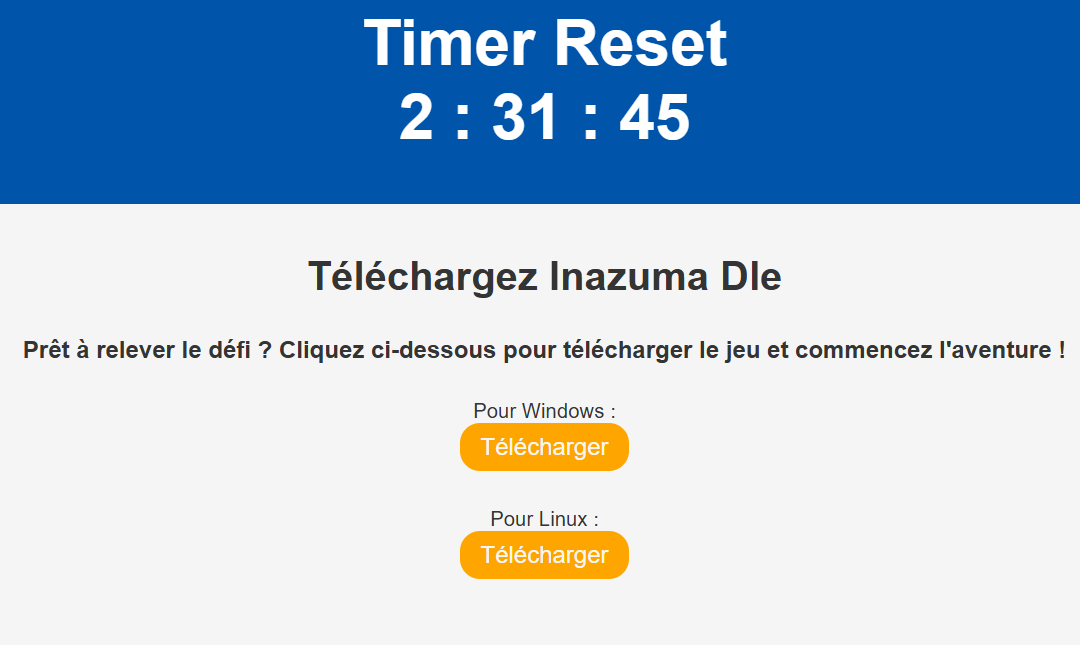
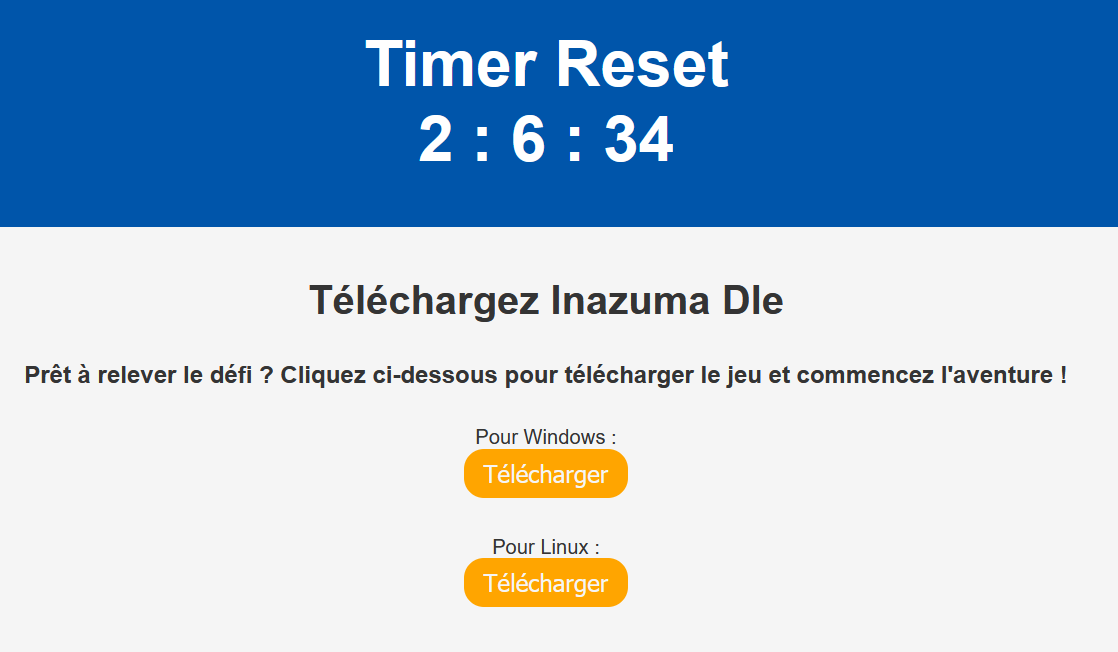
fix responsiv and image

diff --git a/app/projets/[slug]/page.tsx b/app/projets/[slug]/page.tsx
@@ -5,23 +5,19 @@ import Link from "next/link";
 import { MiseEnPage } from "../../essentiel/miseEnPage";
 import { Titre } from "../../composants/titre";
 import { Info } from "../../composants/info";
-import { Footer } from "../../essentiel/footer";
 
 interface PageProps {
 	params: Promise<{ slug: string }>;
 }
 
-// 1. Ajouter cette fonction pour générer toutes les routes statiques
 export async function generateStaticParams() {
 	return Projets.map((project) => ({
 		slug: project.slug,
 	}));
 }
 
-// 2. Votre composant de page dynamique
 export default async function ProjectPage({ params }: PageProps) {
 	const { slug } = await params;
-
 	const projets = Projets.find((p) => p.slug === slug);
 
 	if (!projets) {
@@ -30,7 +26,8 @@ export default async function ProjectPage({ params }: PageProps) {
 
 	return (
 		<MiseEnPage>
-			<main className=" text-white bg-white p-6">
+			{/* Changement : text-black par défaut pour éviter le texte blanc invisible sur fond blanc */}
+			<main className="text-black bg-white p-6">
 				<div className="mt-20">
 					<Titre texte={projets.titre} endroit="bleu" />
 				</div>
@@ -43,13 +40,24 @@ export default async function ProjectPage({ params }: PageProps) {
 					))}
 				</div>
 
+				<div className="flex justify-center mt-20">
+					<p className="text-lg md:text-xl leading-relaxed w-full md:w-1/2">
+						{projets.description}
+					</p>
+				</div>
+
 				<img
 					src={projets.imagePrincipale}
 					alt={projets.titre}
-					className="w-full h-96 object-cover rounded-2xl mb-6 shadow-xl mt-20"
+					className="w-full h-full md:h-120 object-cover rounded-2xl mb-6 shadow-xl mt-20"
 				/>
 
-				<p className="text-xl leading-relaxed text-black w-100 md:w-1/2 mx-auto mt-20">{projets.Contexte}</p>
+				{/* Correction ici : w-full sur mobile, md:w-1/2 sur ordinateur */}
+				<div className="flex justify-center mt-20">
+					<p className="text-lg md:text-xl leading-relaxed w-full md:w-1/2">
+						{projets.Contexte}
+					</p>
+				</div>
 
 				<div className="grid grid-cols-1 md:grid-cols-2 gap-6 mt-20">
 					{projets.images.map((image) => (
@@ -57,22 +65,26 @@ export default async function ProjectPage({ params }: PageProps) {
 							key={image}
 							src={image}
 							alt={projets.titre}
-							className="w-full h-120 object-cover rounded-2xl mb-6 shadow-xl"
+							className="w-full md:h-120 object-cover rounded-2xl mb-6 shadow-xl"
 						/>
 					))}
 				</div>
 
-				<p className="text-xl leading-relaxed text-black w-100 md:w-1/2 mx-auto mt-20">{projets.contenuComplet}</p>
+				{/* Correction ici : w-full (ou w-11/12) au lieu de w-90 qui n'existe pas */}
+				<div className="flex justify-center mt-20">
+					<p className="text-lg md:text-xl leading-relaxed w-full md:w-1/2">
+						{projets.contenuComplet}
+					</p>
+				</div>
 
-				<Link
-					href={projets.lien}
-					className="text-blue-400 hover:underline mb-6 flex items-center justify-center w-100 md:w-4/5 mx-auto mt-20"
-				>
-					<button className="bg-blue-500 text-white rounded-4xl p-2 hover:bg-blue-600 transition duration-300 shadow-md">
-						voir le projet
-					</button>
-				</Link>
-
+				{/* Correction ici : Retrait de w-100 qui faisait déborder le bouton sur mobile */}
+				<div className="flex justify-center mt-20 mb-6">
+					<Link href={projets.lien} className="text-blue-400 hover:underline">
+						<button className="bg-blue-500 text-white rounded-full px-6 py-3 hover:bg-blue-600 transition duration-300 shadow-md">
+							voir le projet
+						</button>
+					</Link>
+				</div>
 			</main>
 		</MiseEnPage>
 	);

diff --git a/app/data/projets.ts b/app/data/projets.ts
@@ -36,7 +36,7 @@ export const Projets: Project[] = [
 		imagePrincipale: "/images/projet2/Home.png",
 		images: ["/images/projet2/Panier.png", "/images/projet2/Produit.png"],
 		contenuComplet: "Ce projet consistait à créer un site web pour une entreprise spécialisée dans les produits artisanaux. Le site devait présenter les différents produits, raconter l'histoire de l'entreprise et permettre aux utilisateurs de passer des commandes en ligne. L'objectif était de créer une expérience utilisateur agréable et de mettre en valeur la qualité et l'authenticité des produits proposés.",
-		lien: "https://dev-kit-web.netlify.app/",
+		lien: "",
 		Contexte: "Le projet a été réalisé dans le cadre d'une collaboration avec l'entreprise La roch', qui souhaitait moderniser sa présence en ligne et offrir une plateforme de vente en ligne à ses clients. Le site devait refléter l'identité de l'entreprise et faciliter la navigation pour les utilisateurs."
 	},
 	{
@@ -60,7 +60,7 @@ export const Projets: Project[] = [
 		duree: "7 jours",
 		techno: ["JavaScript", "HTML", "CSS"],
 		imagePrincipale: "/images/projet4/accueil.png",
-		images: ["/images/projet4/timer.png", "/images/projet4/contact.png"],
+		images: ["/images/projet4/timer.png", "/images/projet4/actu.png"],
 		contenuComplet: "Ce projet consistait à créer un site web pour promouvoir et permettre le téléchargement d'un jeu de devinette appelé InazumaDle. Le site devait présenter les différentes fonctionnalités du jeu, fournir des instructions sur la façon de jouer et offrir un lien de téléchargement pour les utilisateurs intéressés. L'objectif était de créer une expérience utilisateur engageante et de susciter l'intérêt pour le jeu.",
 		lien: "https://inazumadle-web.netlify.app/",
 		Contexte: "Le projet a été réalisé dans le cadre d'un défi de développement web visant à créer un site web fonctionnel pour un jeu en ligne. L'objectif était de démontrer la capacité à concevoir et développer rapidement une interface utilisateur attrayante et informative, tout en mettant en avant les fonctionnalités du jeu et en facilitant le téléchargement pour les utilisateurs."
